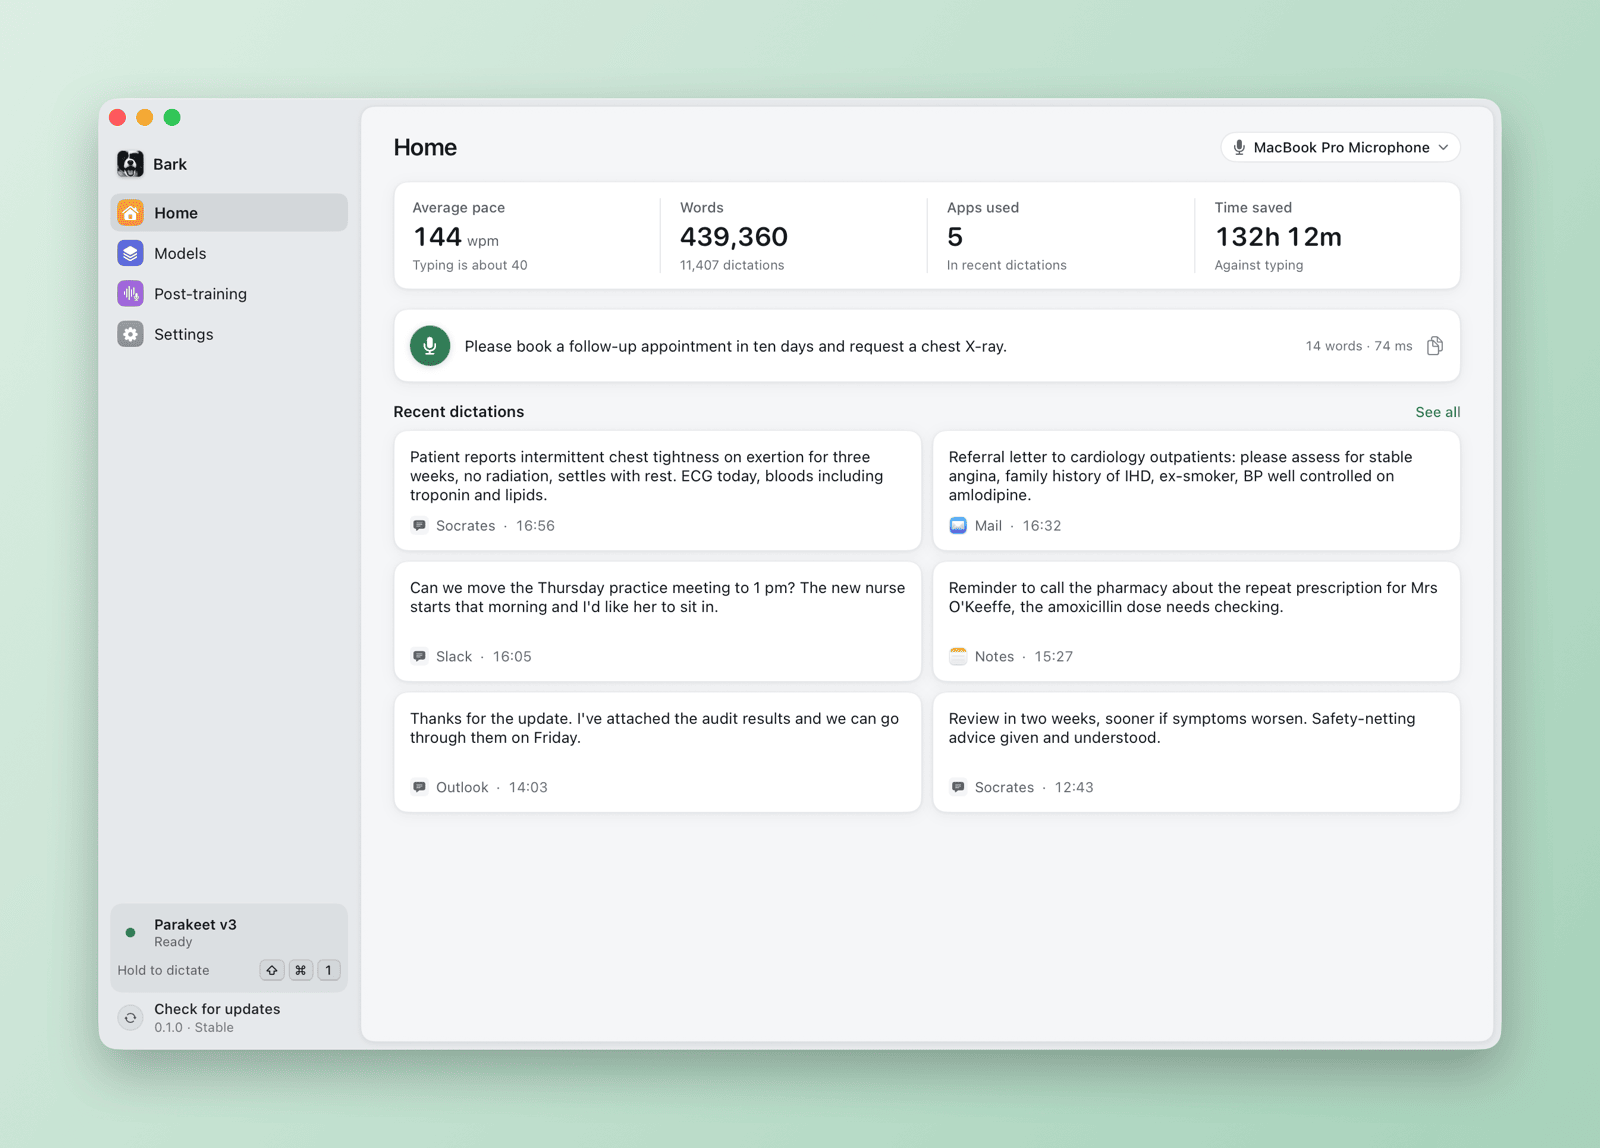
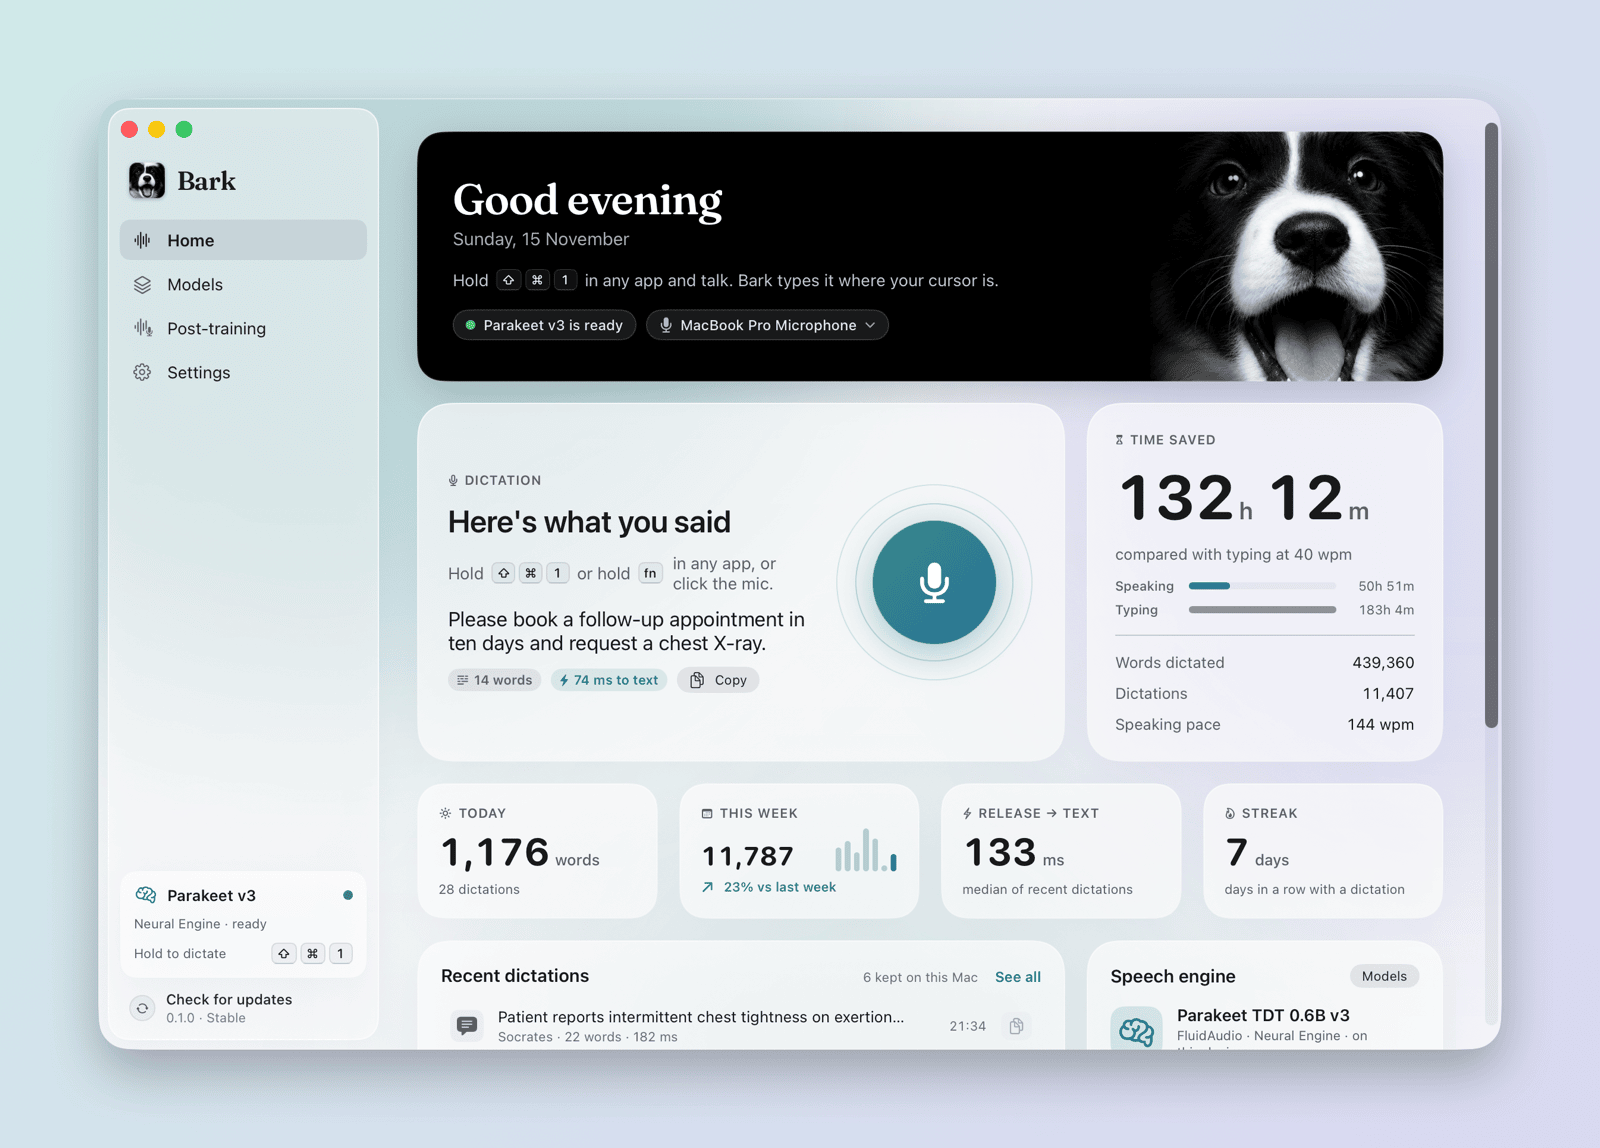
docs: show the October redesign in the README, with the pill without key hints

diff --git a/docs/images/src/compose.swift b/docs/images/src/compose.swift
@@ -47,12 +47,12 @@ if let cropArg {
     image = cut
 }
 
-// The backdrop: the app's sage accent, soft in the light theme and deep in the dark one.
+// The backdrop: the app's own, teal into lavender, soft in the light theme and deep in the dark one.
 let colors: [CGColor] = dark
-    ? [CGColor(srgbRed: 0x25 / 255, green: 0x55 / 255, blue: 0x40 / 255, alpha: 1),
-       CGColor(srgbRed: 0x0E / 255, green: 0x26 / 255, blue: 0x1B / 255, alpha: 1)]
-    : [CGColor(srgbRed: 0xDC / 255, green: 0xEE / 255, blue: 0xE3 / 255, alpha: 1),
-       CGColor(srgbRed: 0xA6 / 255, green: 0xD2 / 255, blue: 0xBA / 255, alpha: 1)]
+    ? [CGColor(srgbRed: 0x1D / 255, green: 0x4A / 255, blue: 0x4B / 255, alpha: 1),
+       CGColor(srgbRed: 0x1C / 255, green: 0x1A / 255, blue: 0x33 / 255, alpha: 1)]
+    : [CGColor(srgbRed: 0xCF / 255, green: 0xE9 / 255, blue: 0xE8 / 255, alpha: 1),
+       CGColor(srgbRed: 0xDA / 255, green: 0xD8 / 255, blue: 0xF2 / 255, alpha: 1)]
 
 let w = CGFloat(image.width), h = CGFloat(image.height)
 let pad = padArg.flatMap { Double($0) }.map { CGFloat($0) } ?? (max(w, h) * 0.07).rounded()

diff --git a/README.md b/README.md
@@ -10,7 +10,7 @@ text lands in whatever app you're typing in.
 <p align="center">
   <picture>
     <source media="(prefers-color-scheme: dark)" srcset="docs/images/home-dark.png">
-    <img src="docs/images/home-light.png" width="800" alt="Bark's Home window: today's pace, words and time saved, the last dictation, and recent dictations with the app each went into">
+    <img src="docs/images/home-light.png" width="800" alt="Bark's Home window: a banner with the dog, a greeting and the shortcut, the last dictation beside a big microphone, the time saved, and today's, this week's, latency and streak tiles">
   </picture>
 </p>
 
@@ -45,7 +45,7 @@ without it.
 <p align="center">
   <picture>
     <source media="(prefers-color-scheme: dark)" srcset="docs/images/pill-dark.png">
-    <img src="docs/images/pill-light.png" width="600" alt="The pill while you dictate: the words so far, the recording level and time, and the shortcuts to stop or cancel">
+    <img src="docs/images/pill-light.png" width="600" alt="The pill while you dictate: the words so far, the voice level and the time">
   </picture>
 </p>
 
